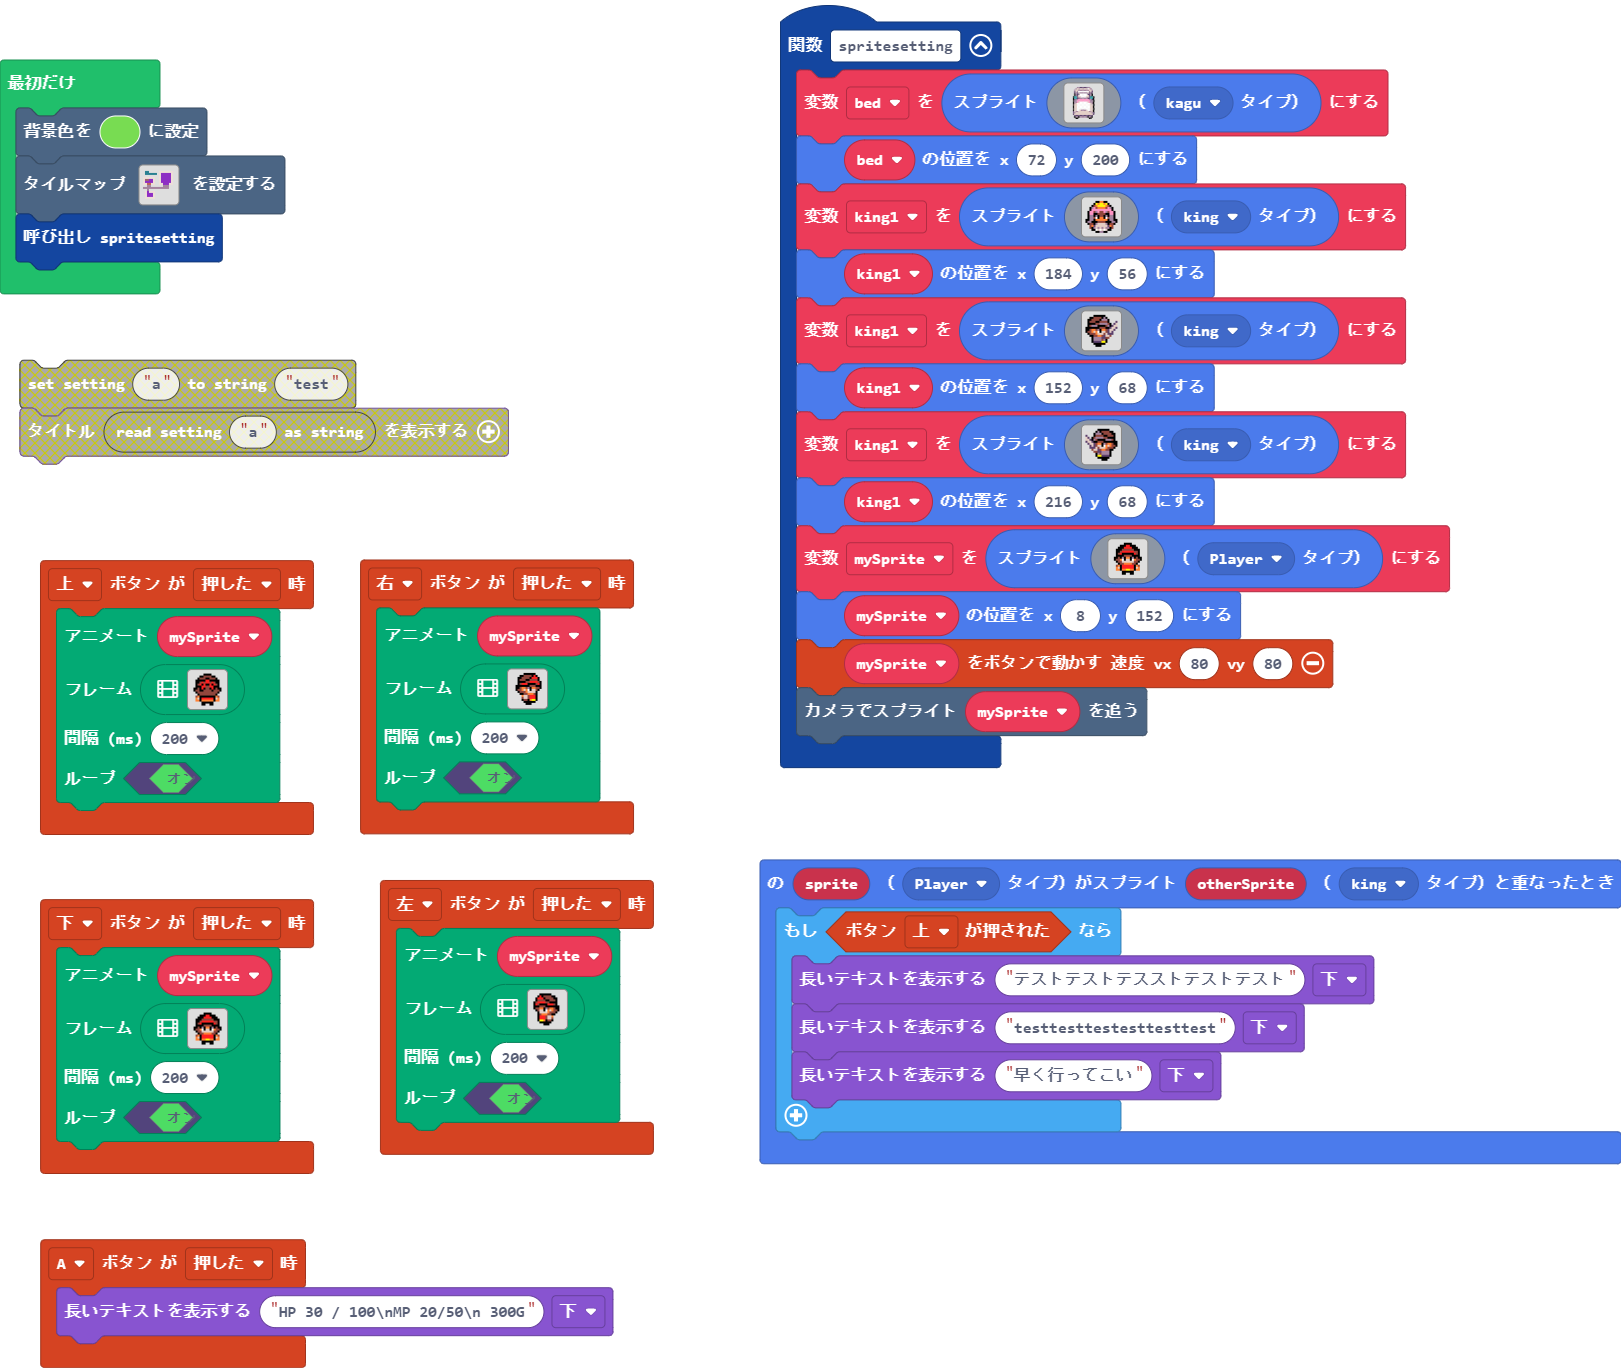
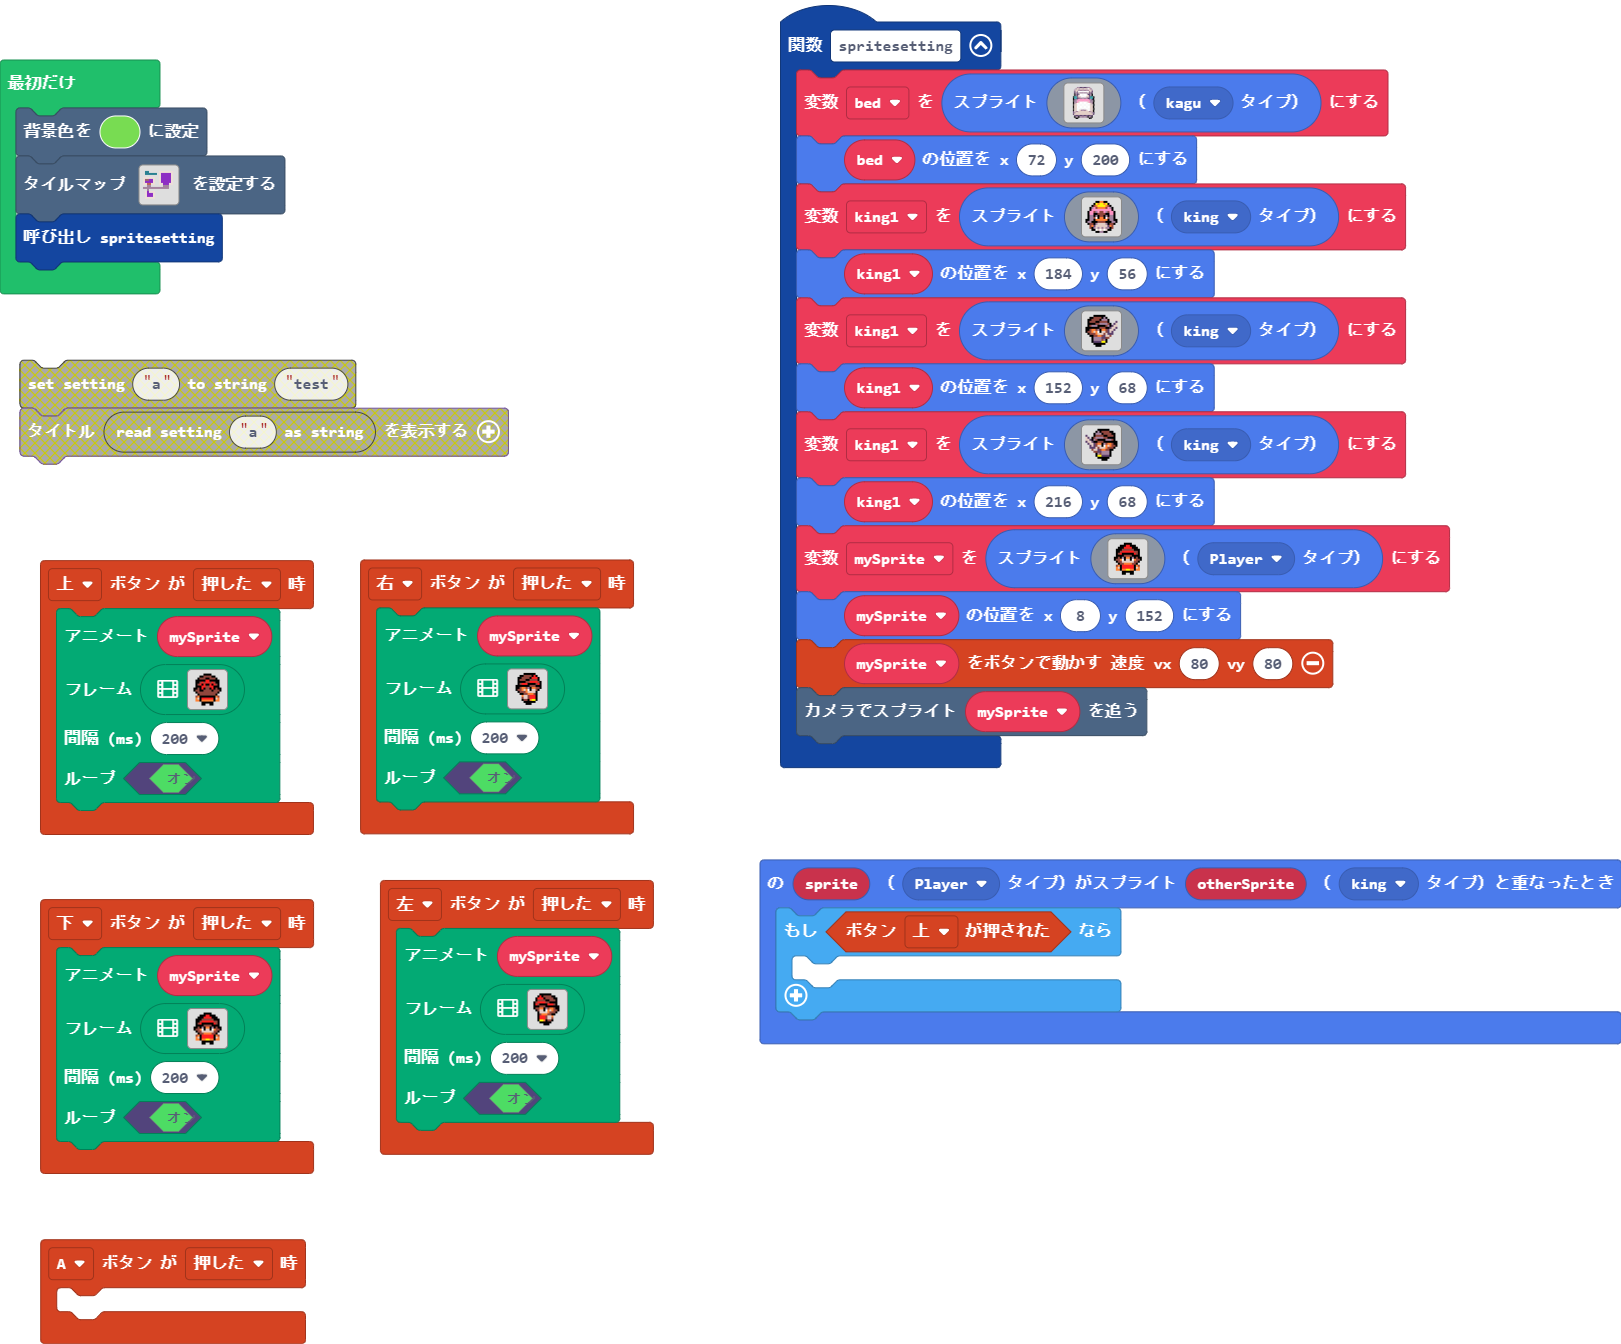
更新 main.blocks, main.ts

diff --git a/main.ts b/main.ts
@@ -415,13 +415,11 @@ controller.up.onEvent(ControllerButtonEvent.Pressed, function () {
 })
 sprites.onOverlap(SpriteKind.Player, SpriteKind.king, function (sprite, otherSprite) {
     if (controller.up.isPressed()) {
-        game.showLongText("テストテストテスストテストテスト", DialogLayout.Bottom)
-        game.showLongText("testtesttestesttesttest", DialogLayout.Bottom)
-        game.showLongText("早く行ってこい", DialogLayout.Bottom)
+    	
     }
 })
 controller.A.onEvent(ControllerButtonEvent.Pressed, function () {
-    game.showLongText("HP 30 / 100\\nMP 20/50\\n 300G", DialogLayout.Bottom)
+	
 })
 let king1: Sprite = null
 let bed: Sprite = null
